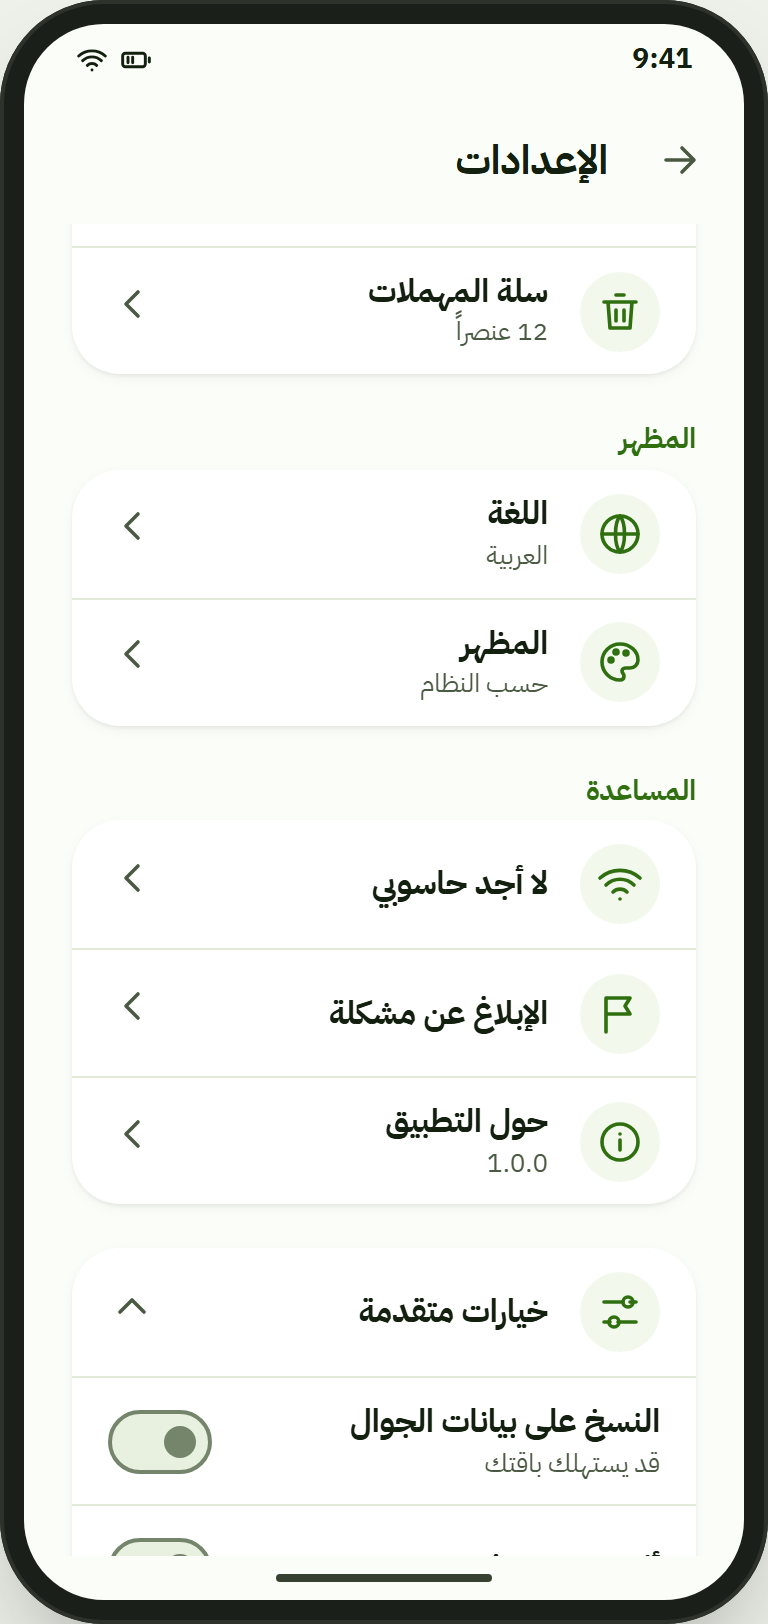
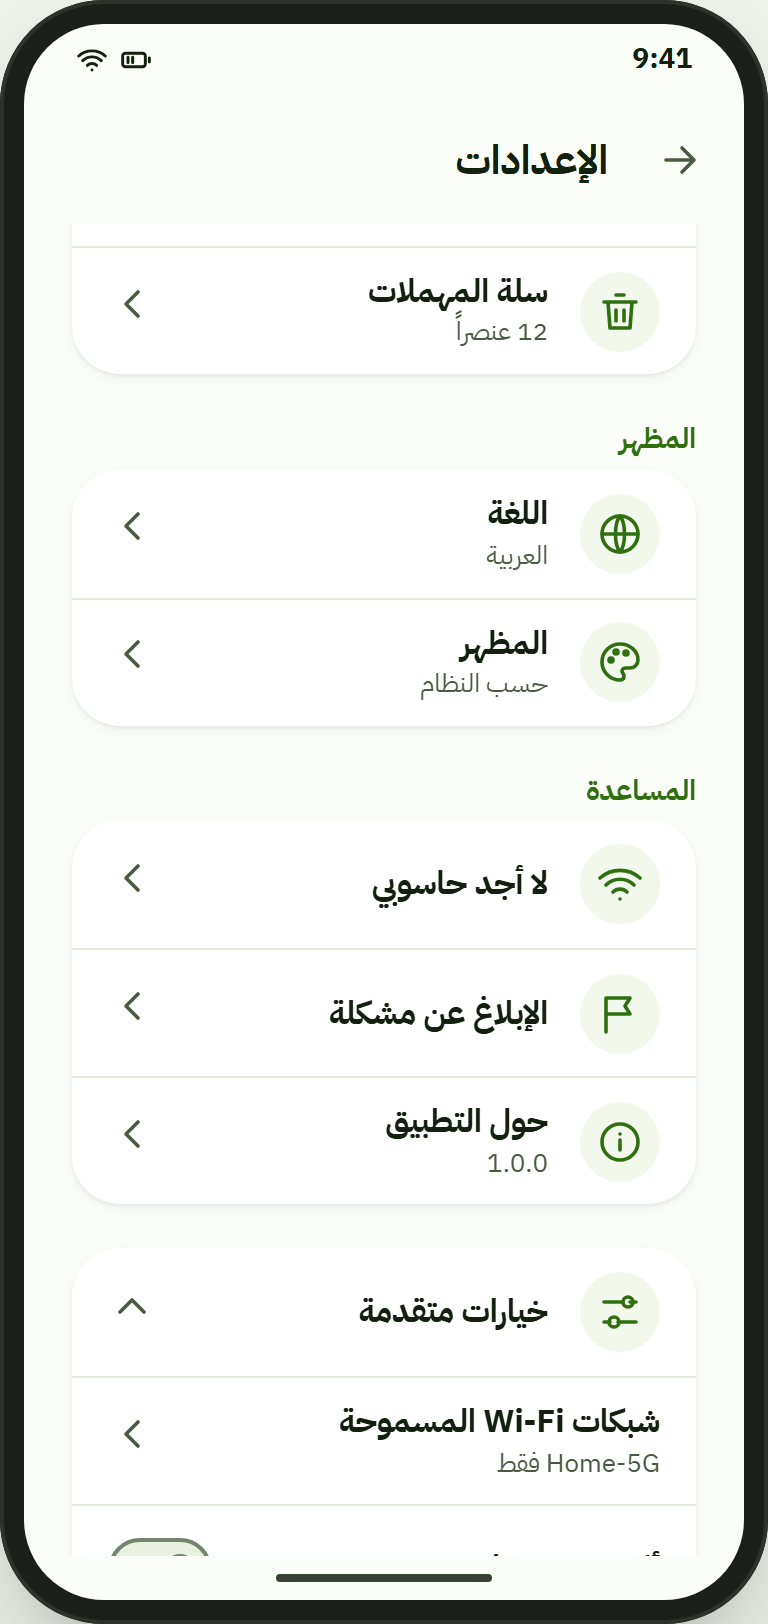
design: DESIGN.md, SCREENS.md, full review screenshots
Design system (principles, tokens with measured contrast, type, spacing,
radius, elevation, motion, icons, wording) and the screen list with each
screen's single primary action. Phone: SD-card and WhatsApp folders are
copy only; advanced setting for allowed Wi-Fi networks replaces the
mobile-data option (there is no internet mode). All Arabic-light
screenshots, English-dark homes and contact sheets regenerated.

Changed region(s): [[0.4375, 0.8621, 0.875, 0.9236], [0.125, 0.8621, 0.2812, 0.9236]]

diff --git a/design/phone.html b/design/phone.html
@@ -326,10 +326,11 @@ const SCREENS = [
           ['folder',T('صور واتساب','WhatsApp images'),'2,031 · 1.9 GB','',T('متوقف','Off')],
           ['video',T('فيديوهات واتساب','WhatsApp videos'),'164 · 2.7 GB','',T('متوقف','Off')],
           ['download',T('التنزيلات','Downloads'),'88 · 0.4 GB','',T('متوقف','Off')],
-          ['doc',T('المستندات','Documents'),'37 · 0.1 GB','',T('متوقف','Off')]]
+          ['doc',T('المستندات','Documents'),'37 · 0.1 GB','',T('متوقف','Off')],
+          ['storage',T('بطاقة الذاكرة · DCIM','SD card · DCIM'),'318 · 1.2 GB','',T('متوقف','Off')]]
          .map(([ic,a,b,c,d])=>row(ic,a,b,`<span class="pill ${c}">${d}</span>`,'folder')).join('')}
      </div>
-     <p class="cap" style="margin-top:14px;text-align:center">${T('النقل النهائي متوقف في كل المجلدات إلى أن تشغّله بنفسك.','Final move stays off in every folder until you turn it on.')}</p>
+     <p class="cap" style="margin-top:14px;text-align:center">${T('النقل النهائي متوقف في كل المجلدات إلى أن تشغّله بنفسك. مجلدات واتساب وبطاقة الذاكرة تُنسخ فقط.','Final move stays off in every folder until you turn it on. WhatsApp and SD‑card folders are copy only.')}</p>
    </div>
    ${foot(btn(T('تم','Done'),'home'))}`},
  { id:'folder', base:'folders', n:['مجلد: نسخ أم نقل نهائي','Folder: copy or final move'], r:()=>`
@@ -522,7 +523,7 @@ function settings(adv){
    ${g(T('المظهر','Appearance'), row('globe',T('اللغة','Language'),T('العربية','English'),chev)+row('palette',T('المظهر','Theme'),T('حسب النظام','System'),chev))}
    ${g(T('المساعدة','Help'), row('wifi',T('لا أجد حاسوبي','Can’t find my PC'),'',chev,'trouble')+row('flag',T('الإبلاغ عن مشكلة','Report a problem'),'',chev,'report')+row('info',T('حول التطبيق','About'),'1.0.0',chev,'about'))}
    <div class="card list" style="margin-top:22px">${row('settings',T('خيارات متقدمة','Advanced'),adv?'':T('6 خيارات','6 options'),`<span class="chev">${I(adv?'collapse':'expand')}</span>`,adv?'settings':'settingsAdv')}
-   ${adv? row('',T('النسخ على بيانات الجوال','Back up on mobile data'),T('قد يستهلك باقتك','May use your data plan'),sw(false))
+   ${adv? row('',T('شبكات Wi‑Fi المسموحة','Allowed Wi‑Fi networks'),T('Home‑5G فقط','Home‑5G only'),chev)
         + row('',T('أثناء الشحن فقط','Only while charging'),'',sw(false))
         + row('',T('الفيديو على Wi‑Fi فقط','Videos on Wi‑Fi only'),'',sw(true))
         + row('',T('مدة سلة المهملات','Trash period'),T('30 يوماً','30 days'),chev)

diff --git a/design/DESIGN.md b/design/DESIGN.md
@@ -1,0 +1,151 @@
+# Kiwi Transfer 1.0 — design system
+
+Kiwi Transfer copies or moves photos, videos and files from an Android phone to a Windows PC over the home Wi‑Fi. No cloud, no account, no ads, open source.
+
+The mock-ups are the reference: `phone.html` (Android) and `pc.html` (Windows). Open them in any browser; ع / EN switches language and the moon/sun switches theme. `SCREENS.md` lists every screen and what it is for.
+
+## 1. Principles
+
+The owner asked for a design that is "premium, simple and clear, like Apple's design philosophy". We take the principles, not the look: no Apple fonts, icons, SF Symbols or layouts. Controls stay native: Material 3 on Android, Fluent on Windows.
+
+1. **Clarity first.** Every screen answers one question ("are my photos safe?", "what will be deleted?") in a single sentence, in large type.
+2. **One clear action per screen.** One filled button. Other actions are text buttons, list rows or tucked into Settings.
+3. **Works with zero setup.** Defaults are safe and useful: copy (never delete), camera and screenshots on, back up automatically on Wi‑Fi, year/month folders on the largest fixed drive. Final move is off everywhere until the user turns it on per folder.
+4. **Defer to content.** Photos and the status line are the heroes. Chrome is quiet: no gradients on controls, no decorative borders, one accent colour.
+5. **Depth with meaning.** Shadows only for things that float (dialogs, sheets, menus). Cards are flat on light, tinted on dark.
+6. **Calm, meaningful motion.** Motion shows where something goes (a photo travels phone → PC) or where something came from (a sheet rises from the bottom). Nothing bounces, spins for fun or celebrates.
+7. **Honest about risk.** Anything that deletes says so in plain words before it happens, shows the count, and says how to undo it (trash, 30 days).
+8. **Generous whitespace.** 24 dp side margins on the phone, 36 px on the PC. When in doubt, remove an element instead of shrinking it.
+
+## 2. Colour tokens
+
+Derived from the FastKiwi site tokens (`sarmadiq9090-coder.github.io/style.css`: `--bg #fbfdf8`, `--text #14200f`, `--muted #4a5a42`, `--brand-dark #2f6f10`, `--border #e2ead8`). One accent: FastKiwi green. Amber and red are for warnings and destructive actions only.
+
+| Token | Light | Dark | Use |
+|---|---|---|---|
+| `bg` | `#FBFDF8` | `#0F150C` | Screen / page background |
+| `surface` | `#FFFFFF` | `#172014` | Cards, dialogs, sheets |
+| `surface-2` | `#F2F8EB` | `#1E2A19` | Notes, icon wells, chips |
+| `surface-3` | `#E8F0DF` | `#26331F` | Selected nav, progress track, switch off |
+| `line` | `#E2EAD8` | `#2B3826` | Dividers, card borders |
+| `outline` | `#75856C` | `#8A9A82` | Control outlines (3:1 or better) |
+| `text` | `#14200F` | `#EAF2E3` | Primary text |
+| `text-2` | `#4A5A42` | `#A9B8A0` | Secondary text |
+| `accent` | `#2F6F10` | `#8FD14F` | Primary buttons, selection, links |
+| `on-accent` | `#FFFFFF` | `#0F1A08` | Text on accent |
+| `accent-soft` | `#E8F3DC` | `#22331A` | Tonal buttons, "OK" pills, hero circle |
+| `on-accent-soft` | `#1F4A0A` | `#CBEFA6` | Text on accent-soft |
+| `warn` / `warn-soft` | `#8A5A00` / `#FFF4DC` | `#F2C063` / `#2E2610` | Problems, "copy only", "no other copy" |
+| `danger` / `danger-soft` | `#B3261E` / `#FCE8E6` | `#FFB4AB` / `#3A1A17` | Destructive confirmation only |
+| `mica` (PC) | `#F3F6EF` | `#121A0F` | Window title bar and navigation pane |
+
+Icon-only colours (never used for text): forest `#123B2A` / `#2F6249`, apricot `#FFC27A`, lime `#B9F34A`.
+
+**Contrast (WCAG 2.2, measured):**
+
+| Pair | Light | Dark |
+|---|---|---|
+| text on bg | 16.5 | 16.2 |
+| text-2 on bg | 7.2 | 8.9 |
+| text-2 on surface-3 | 6.3 | 6.4 |
+| accent on bg | 6.0 | 10.1 |
+| on-accent on accent | 6.2 | 9.7 |
+| on-accent-soft on accent-soft | 9.0 | 10.6 |
+| warn on warn-soft | 5.4 | 8.9 |
+| danger on bg | 6.4 | 10.9 |
+| outline on bg (non-text, needs 3:1) | 3.9 | 6.2 |
+
+All text pairs pass AA (4.5:1); most pass AAA.
+
+## 3. Typography
+
+**One typeface: IBM Plex Sans Arabic** (SIL Open Font License 1.1, see `licenses/OFL-IBM-Plex-Sans-Arabic.txt`). It contains matching Arabic and Latin, so Arabic and English look like one family. Weights: 400 and 700 only. It is bundled with both apps (no download at run time). Digits are Western (0–9) in both languages.
+
+Monospace (report preview only): the platform's own (Cascadia Mono on Windows, the system monospace on Android).
+
+| Role | Phone (sp) | PC (px) | Weight |
+|---|---|---|---|
+| Display (home status) | 28 / 1.3 | 28 / 1.3 | 700 |
+| Headline (screen question) | 26 / 1.3 | 20 / 1.35 | 700 |
+| Title (app bar, dialog) | 20–22 | 20 | 700 |
+| Body | 16 / 1.55 | 14 / 1.6 | 400 |
+| Label (buttons, row titles) | 16 | 14 | 700 |
+| Caption | 13 / 1.5 | 13 | 400 |
+| Big number (code, space saved) | 40–56 | 34–84 | 700 |
+
+Rules: never below 13 for Arabic. All sizes in sp on Android so text scales to 200 %; layouts use wrapping rows and scrolling content, never fixed-height text boxes. Long titles wrap; they are not truncated, except in the app bar where the full title is also the screen's headline.
+
+## 4. Spacing, radius, elevation
+
+**Spacing:** 4-point grid. Steps 4, 8, 12, 16, 24, 32, 48. Phone side margin 24 dp; PC content padding 36 px horizontal, 28 px vertical. Space between groups (24) is always larger than space inside a group (8–12).
+
+**Size:** touch targets ≥ 48 dp on the phone (primary button 56 dp, rows ≥ 64 dp, icon buttons 48 dp). PC controls follow Fluent: buttons 34–40 px, nav items 40 px, rows ≥ 64 px (WCAG 2.5.8 needs 24 px).
+
+| Radius | Phone | PC |
+|---|---|---|
+| Buttons | 28 (full pill) | 5 |
+| Cards | 24 | 8 |
+| Dialogs | 28 | 8 |
+| Sheets | 28 top corners | — |
+| Window | — | 8 |
+| Photo tiles | 4 (12 when selected) | 4 |
+| Drop zone | — | 12 |
+
+**Elevation:** two levels only.
+- Level 1 (`sh-1`): resting cards on light. On dark, cards are separated by a lighter surface instead of a shadow.
+- Level 3 (`sh-3`): dialogs, sheets, menus. Always with a scrim (`rgb(20 32 15 / .42)` light, black 60 % dark) when modal.
+
+## 5. Motion
+
+| What | Duration | Easing |
+|---|---|---|
+| Press feedback (button scales to 98 %) | 120 ms | standard `cubic-bezier(.2,0,0,1)` |
+| Switch, selection, fade | 200–250 ms | standard |
+| Dialog / sheet / menu enters | 250–350 ms | emphasised decelerate `cubic-bezier(.05,.7,.1,1)` |
+| Progress bar update | 600 ms | standard |
+| Backup "photo flight" loop | 3.2 s per photo, 3 photos staggered | `cubic-bezier(.45,0,.3,1)` |
+
+Rules:
+- Motion explains direction or cause. The photo flies from the phone to the PC along a soft arc and shrinks as it lands; in Arabic the scene is mirrored so it still reads start → end.
+- Exits are faster than entrances. Nothing bounces or overshoots.
+- `prefers-reduced-motion` / Android "Remove animations": all loops stop; the backup screen shows one photo resting at the top of the arc, the QR scanner line sits still.
+
+## 6. Icons
+
+- **Android:** Material Symbols Rounded, weight 400, grade 0, 24 dp (Apache License 2.0).
+- **Windows:** Fluent UI System Icons, Regular, 20 px (MIT License).
+- The mock-ups draw simplified line glyphs of the same meaning so the files stay self-contained; production swaps them 1:1.
+- Icons always sit beside a text label, except universally known ones in the app bar (back, settings, history), which carry an accessible label.
+- Directional icons (back, chevrons) mirror in Arabic; media, clock and check icons do not.
+
+**App icon** (`icon.svg`, 256 grid, adaptive-icon safe zone respected): a phone in front of a monitor with a lime arrow going into the screen, on FastKiwi forest green, plus the small lime FastKiwi leaf in the corner. Readable at 48, 32 and 24 px (see `review/contact-icons.png`). `icon-mono.svg` is the single-colour template for the Android 13 themed icon and the Windows tray (tinted by the system; white on dark). Three rejected alternatives are kept in `icon-alternatives/` for comparison.
+
+## 7. Wording
+
+Voice: a calm, competent friend. Short sentences, everyday words, second person. Say what happens, then why, in that order.
+
+| Do | Don't |
+|---|---|
+| «صورك في أمان على حاسوبك» / "Your photos are safe on your PC" | «اكتملت عملية المزامنة بنجاح» / "Synchronisation completed successfully" |
+| «انسخ الآن» / "Back up now" | «بدء النسخ الاحتياطي» / "Initiate backup" |
+| «سيصبح حاسوبك النسخة الوحيدة» / "Your PC becomes the only copy" | «سيتم حذف الملفات المصدر» / "Source files will be deleted" |
+| «لا أجد حاسوبي» / "I can't find my PC" | «خطأ في الاتصال: 0x80072EFD» / "Connection error 0x80072EFD" |
+| «تنتظر في سلة المهملات 30 يوماً» / "They wait in the trash for 30 days" | «يمكن استرجاع العناصر المحذوفة» / "Deleted items are recoverable" |
+| «حدّث الآن» · «لاحقاً» / "Update now" · "Later" | «موافق» · «إلغاء» for everything / "OK" · "Cancel" everywhere |
+
+Rules:
+1. Buttons are verbs that name the result: «احذف من الهاتف» / "Remove from phone", never «نعم» / "Yes".
+2. Numbers are exact and Western digits: «1,976 عنصراً», "1,976 items". Sizes: «3.2 غيغابايت» in Arabic, "3.2 GB" in English.
+3. Destructive actions always state count, place and undo: "Remove 1,976 items from this phone? … You can bring them back from the trash within 30 days."
+4. No jargon in the main flow: "Wi‑Fi", "PC", "phone", "trash" — not "LAN", "host", "client", "hash". The technical words live only in Settings › Advanced and in the report preview.
+5. Arabic is written natively (Modern Standard, light and friendly), not translated word by word. Use «حاسوب», «هاتف», «نسخ», «نقل نهائي», «سلة المهملات» consistently.
+6. Errors say what to do next: «جرّب الشبكة الرئيسية» / "Try your main network".
+7. Device names are the user's own; sample data uses invented names only (هاتف سارة / Sara's phone, هاتف كريم / Karim's phone, حاسوب البيت / Home PC).
+
+## 8. Platform notes
+
+**Android (Material 3):** top app bar, filled / tonal / text buttons, list rows, switches, radio buttons, bottom sheets, dialogs, segmented buttons. Edge-to-edge with the gesture bar. The share-sheet entry ("Send to PC") is a normal Android share target.
+
+**Windows (Fluent):** Mica title bar and navigation pane, accent button, standard buttons, toggle switches, radio buttons, ContentDialog with the action bar at the bottom, an expander for advanced settings, and a tray icon with a context menu. Caption buttons and the whole layout mirror in Arabic, as Windows does.
+
+**Both:** light and dark follow the system by default; Arabic first (RTL), English second; text scales to 200 %.

diff --git a/design/SCREENS.md b/design/SCREENS.md
@@ -1,0 +1,62 @@
+# Kiwi Transfer 1.0 — screen list
+
+Each screen has one primary action (the filled / accent button, or the thing the screen waits for). IDs match the mock-ups: open `phone.html#s=<id>` or `pc.html#s=<id>`. Screenshots: `review/<device>-<id>-ar-light.png`, contact sheets `review/contact-phone.png` and `review/contact-pc.png`.
+
+Not in 1.0 (cut on purpose): internet / remote mode and an encrypted vault. Pairing is by QR; the 6-digit comparison code shown on both screens is the fallback and the confirmation.
+
+## Phone (Android)
+
+| ID | Screen | Primary action | Features covered |
+|---|---|---|---|
+| `onb1` | First launch 1/3: install the PC program | Installed, next | Link to the free PC program; "send the link to myself" |
+| `onb2` | First launch 2/3: scan the code | (camera scans the QR) | QR pairing; "nothing goes through the internet"; way out to troubleshooting |
+| `onb2b` | Pairing: waiting for the PC | (waits for Allow on the PC) | 6-digit comparison code shown on both screens |
+| `onb3` | First launch 3/3: what to back up | Start backup | Folder choice with counts and sizes; safe defaults (camera + screenshots, copy) |
+| `home` | Home | Back up now | One status line «صورك في أمان على حاسوبك», last backup, PC connected; shortcuts to Free up space and PC photos; History and Settings in the app bar |
+| `backup` | Backup in progress | Pause | Photo visibly travelling phone → PC; count, time left, progress; runs in background; every file verified on arrival |
+| `folders` | What to back up | Done | Per-folder mode: Off / Copy / Final move; final move off by default |
+| `folder` | Folder sheet: copy or final move | Done | Choose mode for one folder; Final move opens the explanation. WhatsApp and SD-card folders show Copy only |
+| `move` | Final move explained | Turn on final move (enabled only after the checkbox) | PC becomes the only copy; delete only after the PC confirms; 30-day trash; weekly code; "keep a second copy" |
+| `weekly` | Weekly check | Confirm | Enter the 2-digit code shown on the PC, once a week, before final moves |
+| `freeup` | Free up space | Free up 3.2 GB | Only items already on the PC and verified; filter by age |
+| `freeupc` | Free up space: confirm | Remove from phone | Count, place, undo (trash 30 days) |
+| `trash` | Trash | Put all back on the phone | 30-day trash with days left per item |
+| `share` | Send from the share sheet | Send | "Send to PC" share target; choose PC |
+| `receive` | Receive from PC | Accept | Accept prompt with file names, sizes and save folder |
+| `browse` | Photos on your PC | Restore N to phone | Grid by month, multi-select, restore |
+| `history` | History | — (read only) | Backups, received, sent, freed space, retried failures |
+| `settings` | Settings | — (list) | Grouped: Backup, PC, Space, Appearance, Help; Advanced collapsed |
+| `settingsAdv` | Settings, advanced open | — | Allowed Wi‑Fi networks, charging only, videos on Wi‑Fi only, trash duration, weekly check, diagnostic log |
+| `trouble` | Can't find my PC | Try again | Same Wi‑Fi, program open, Windows firewall, router/guest isolation, battery optimisation |
+| `update` | Update available | Update now | Version, size, signed release, what's new |
+| `report` | Report a problem | Open in mail app | Shows exactly what will be sent; log optional; nothing sent without the user seeing it |
+| `about` | About | Check for updates | Version, privacy (collects nothing), source code, licences, FastKiwi |
+
+## PC (Windows)
+
+| ID | Screen | Primary action | Features covered |
+|---|---|---|---|
+| `first` | First run | (waits for the phone to scan) | Pairing QR; "get the phone app" QR that downloads the APK; 6-digit code fallback |
+| `approve` | Pairing request | Allow | «الهاتف "هاتف سارة" يريد الربط. أتسمح؟» with the 6-digit comparison code |
+| `home` | Home | Choose files (drop zone) | Status line, last backup, devices (online / offline), storage used, drop zone to send files to the phone |
+| `weekly` | Weekly code | Close | Large 2-digit code, changes after 5 minutes |
+| `dest` | Where files go | (choose drive / layout) | Destination folder; year/month, per phone, or custom template with live preview; final move only to fixed drives, removable = copy only |
+| `history` | History | — (read only) | Backups, sends, restores, final moves, file checks, pairings |
+| `scanOk` | File check: all good | Check now | Weekly integrity check of every file; final moves on |
+| `scanBad` | File check: problem found | Repair from the phone | Changed files listed with where another copy exists; final moves paused; second-copy advice |
+| `settings` | Settings | — (list) | Phones (paired, pair new), Start with Windows, language, appearance, help; Advanced collapsed |
+| `settingsAdv` | Settings, advanced open | — | Port (firewall on private networks only), weekly file check schedule, diagnostic log |
+| `tray` | Tray menu | Open Kiwi Transfer | Status, send files, show weekly number, pause 1 hour, quit |
+| `update` | Update available | Update now | Version, size, signed release, what's new |
+| `report` | Report a problem | Open in mail program | Exact preview of what is sent, copy text, log optional |
+| `about` | About | Check for updates | Version, privacy, source, licences |
+
+## Tucked into Settings on purpose
+
+These exist but never compete with the main flow:
+
+- **Phone, Settings:** when to back up (automatic on Wi‑Fi), final move per folder, pair another PC, trash, language, appearance, troubleshooting, report, about.
+- **Phone, Advanced (collapsed):** allowed Wi‑Fi networks, back up only while charging, videos on Wi‑Fi only, trash duration (default 30 days), weekly check, diagnostic log (off, stays on the phone).
+- **PC, Settings:** paired phones (rename, unpair), start with Windows, language, appearance, report, about.
+- **PC, Advanced (collapsed):** port (automatic), weekly file check schedule, diagnostic log (off, stays on the PC).
+- **PC, Where files go:** destination and folder layout are a nav item, not a setup step: the default (largest fixed drive, year/month) works with zero setup.
